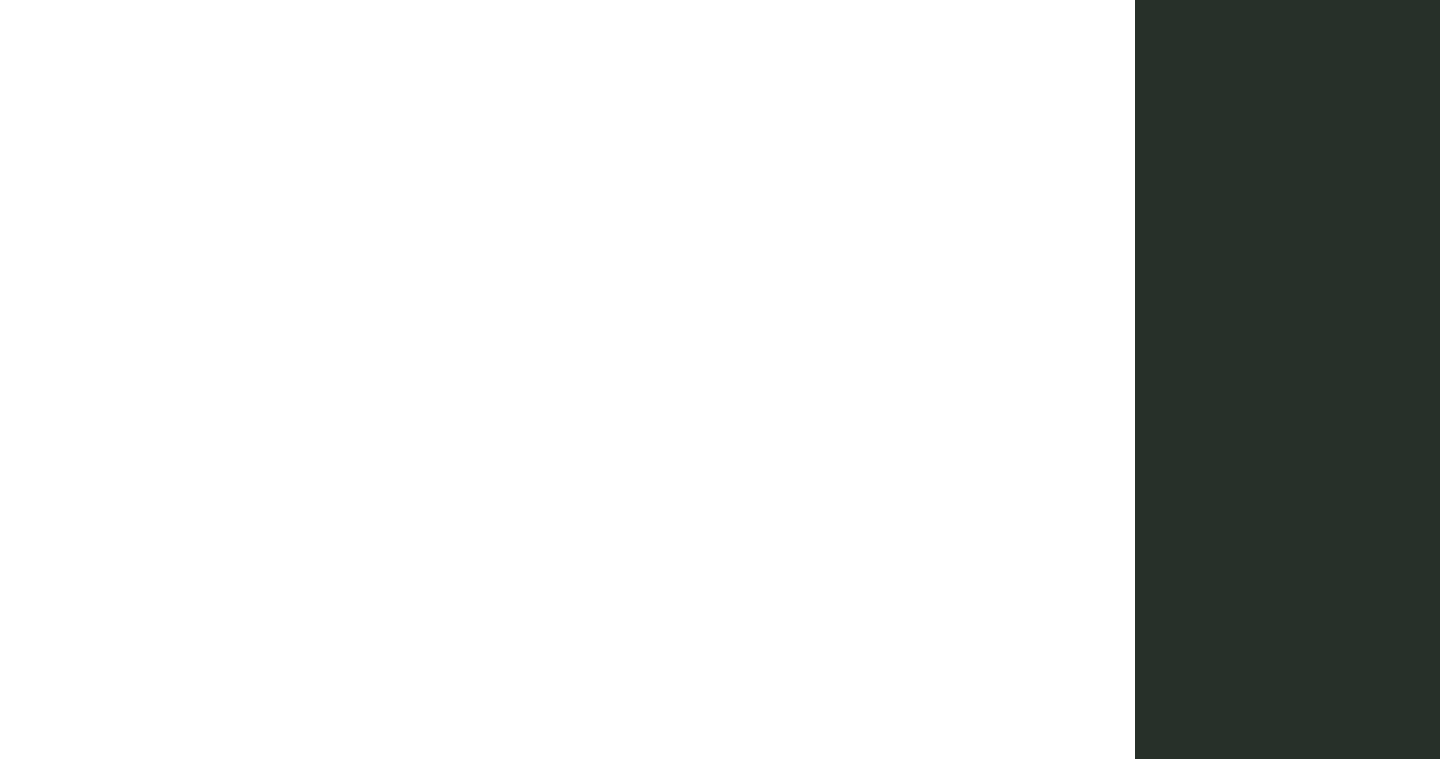
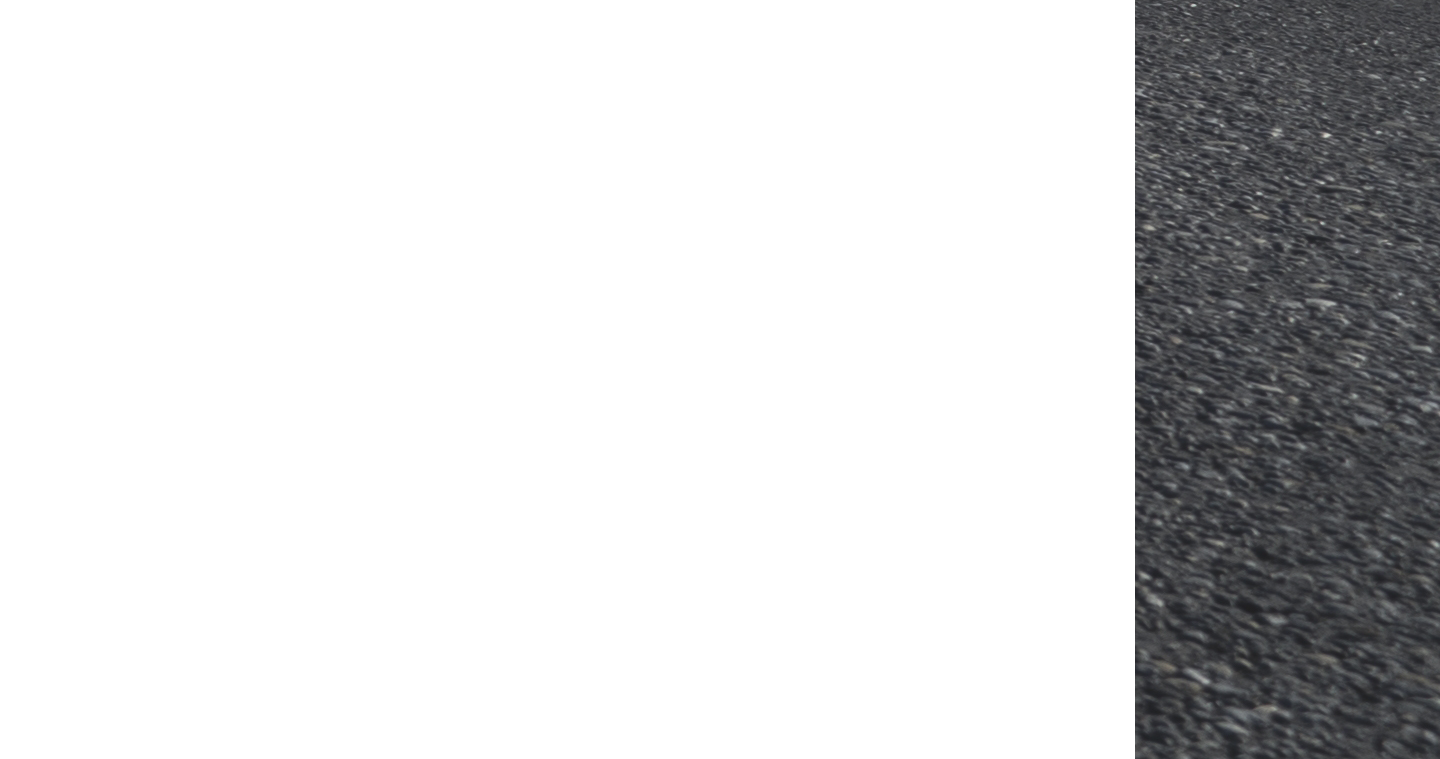
done

Changed region(s): [[0.7812, 0.0, 1.0, 1.0]]

diff --git a/components/Accordion.jsx b/components/Accordion.jsx
@@ -2,25 +2,56 @@
 import React, {useState} from 'react';
 import {motion} from 'framer-motion';
 
-import {HiOutlinePlus, HiOutlineMinus} from 'react-icons/hi';
+import {HiOutlinePlus, HiOutlineMinus, HiArrowRight, HiArrowLeft, HiArrowUp, HiArrowDown} from 'react-icons/hi';
+import Image from "next/image";
+import {fadeIn} from "@/variants";
 
 const Accordion = ({accordion}) => {
     const [isOpen, setIsOpen] = useState(false);
+    const [isFocused, setIsFocused] = useState(false);
+    const handleOnFocus = () => {
+        setIsFocused(true);
+    };
     return (
-        <div  className = "min-w-[450px]">
-            <div className = "drop-shadow-primary bg-white/10 text-black cursor-pointer rounded-xl h-[90px] px-12 flex items-center"
-                 onClick={() => {setIsOpen(!isOpen)}}>
-                <div className = "w-full flex justify-left items-center">
-                    <h3 className = "lead font-medium leading-snug max-w-[400px] left-0 absolute hidden xl:flex">{accordion.title}</h3>
-                    <div className = "transition-all duration-500">
-                        {isOpen
-                            ? (<div ><HiOutlineMinus className = "text-2xl "/></div>)
-                            : (<div className=''><HiOutlinePlus className = "text-2xl text-accent"/></div>)}
+        <div className = "flex py-5 justify-center xl:flex-row flex-col items-center">
+            <div onClick={() => {setIsOpen(!isOpen)}} className = 'cursor-pointer hover:scale-105 transition-all duration-300'>
+                <div className= 'flex items-center xl:flex-row flex-col hover:ml-4 transition-all hover:text-green'>
+                    <motion.div variants = {fadeIn('down', 0.2)}
+                                initial = 'hidden'
+                                whileInView = {'show'}
+                                viewport = {{once: false, amount: 0}}>
+                        <Image className='rounded-xl' src={accordion.img} alt='qwe' width={300} height={150}/>
+                    </motion.div>
+                    <motion.h3 variants = {fadeIn('down', 0.4)}
+                               initial = 'hidden'
+                               whileInView = {'show'}
+                               viewport = {{once: false, amount: 0}} className='text-center py-2 xl:py-0 xl:hidden'>{accordion.title}</motion.h3>
+                    <div className='transition-all duration-700 '>
+                        {isOpen ? ('') : (<motion.div  variants = {fadeIn('right', 0.6)}
+                                                       initial = 'hidden'
+                                                       whileInView = {'show'}
+                                                       viewport = {{once: false, amount: 0}}><HiArrowRight className='text-3xl hidden xl:flex'/></motion.div>)}
+                        {isOpen ? (<motion.div variants = {fadeIn('down', 0.6)}
+                                               initial = 'hidden'
+                                               whileInView = {'show'}
+                                               viewport = {{once: false, amount: 0}}><HiArrowUp className='text-2xl xl:hidden'/></motion.div>) : (<motion.div variants = {fadeIn('down', 0.6)}
+                                                      initial = 'hidden'
+                                                      whileInView = {'show'}
+                                                      viewport = {{once: false, amount: 0}}><HiArrowDown className='text-2xl xl:hidden'/></motion.div>)}
                     </div>
                 </div>
+                <motion.h3 variants = {fadeIn('right', 0.4)}
+                           initial = 'hidden'
+                           whileInView = {'show'}
+                           viewport = {{once: false, amount: 0}} className='text-center py-2 xl:py-0 hidden xl:flex'>{accordion.title}</motion.h3>
             </div>
-            <div className = {`${isOpen ? 'max-h-[160px] p-8 bg-white/10 rounded-xl drop-shadow-primary my-2' : 'max-h-0'}
-        h-[160px] overflow-hidden transition-all flex items-center max-w-[250px]`}>
+        {/*    <div className = "transition-all duration-500">*/}
+        {/*    {isOpen*/}
+        {/*        ? (<motion.div initial = "initial" animate = {{rotate: 180}}><HiOutlineMinus className = "text-2xl "/></motion.div>)*/}
+        {/*        : (<motion.div><HiOutlinePlus initial = "initial" animate = {{rotate: 0}} className = "text-2xl text-accent"/></motion.div>)}*/}
+        {/*</div>*/}
+            <div className = {`${isOpen ? 'min-w-[250px]  rounded-xl drop-shadow-primary px-4' : 'max-h-0'}
+         overflow-hidden flex items-center lg:max-w-[750px] max-w-[150px] transition-all`}>
                 <p className = "lead leading-[30px] text-black">{accordion.fullDesc}</p>
             </div>
         </div>

diff --git a/components/Contact.jsx b/components/Contact.jsx
@@ -48,20 +48,20 @@ const Contact = () => {
             <div className= 'xl:grid xl:grid-cols-3 px-2 xl:px-0'>
                 <div className = 'flex flex-col py-10'>
                     <h1 className= 'pl-8 mb-10'>Контакти<span className = 'text-green'>:</span></h1>
-                    <div className= 'xl:py-4 py-2 flex flex-row items-center'>
+                    <div className= 'xl:py-4 py-2 flex items-center'>
                         <PhoneOutgoing className = 'size-[44px] text-green mr-1' strokeWidth={2.25}/>
                         <h3 className = 'text-secondary font-bold cursor-default'>Телефон<span className = 'text-green'>:</span></h3>
-                        <a href={`tel:${+380663324759}`} className = 'text-[18px] px-2 mt-0.5 text-grey'>+3790123880924</a>
+                        <a href={`tel:${+380980248994}`} className = 'text-[18px] px-2 mt-0.5 text-grey'>+(098)-024-89-94</a>
                     </div>
-                    <div className= 'xl:py-4 py-2 flex flex-row items-center'>
+                    <div className= 'xl:py-4 py-2 flex items-center'>
                         <AtSign className = 'size-[44px] text-green mr-1' strokeWidth={2.25}/>
                         <h3 className = 'text-secondary font-bold cursor-default'>Пошта<span className = 'text-green'>:</span></h3>
-                        <p className= 'text-[18px] px-2 mt-0.5 text-grey'>abrakadabra_02dabra@gmail<span className = 'text-green'>.</span>com</p>
+                        <p className= 'text-[18px] px-2 mt-0.5 text-grey'>sales@s8logistics.com.ua<span className = 'text-green'>.</span>com</p>
                     </div>
-                    <div className= 'xl:py-4 py-2 flex flex-row items-center'>
+                    <div className= 'xl:py-4 py-2 flex items-center'>
                         <MapPinned className= 'size-[44px] text-green mr-1' strokeWidth={2.25}/>
                         <h3 className = 'text-secondary font-bold cursor-default'>Адреса<span className = 'text-green'>:</span></h3>
-                        <p className= 'px-2 text-[18px] mt-0.5 text-grey'>Одеса<span className = 'text-green'>,</span> вул<span className = 'text-green'>.</span>ЯкасьТамВулиця 86</p>
+                        <p className= 'px-2 text-[18px] mt-0.5 text-grey'>Одеса<span className = 'text-green'>,</span> вул<span className = 'text-green'>.</span>Церковна 19</p>
                     </div>
                 </div>
                 <MapContainer

diff --git a/components/ServicesFull.jsx b/components/ServicesFull.jsx
@@ -40,28 +40,20 @@ const services = [
 
 const ServicesFull = () => {
     return (
-        <section className = "min-h-[1150px] rounded-bl-[100%] rounded-tr-[10%] bg-no-repeat lg:pt-40 lg:pb-24 mb-16 lg:mb-40">
+        <section className = "min-h-[1150px] lg:pt-40 pt-36 lg:pb-24 mb-16 lg:mb-40">
             <div className = "container mx-auto">
-                <div className = "relative flex flex-col lg:flex-row justify-center lg:justify-start items-center pt-8 pb-16 lg:pb-24">
-                    <div className = "lg:max-w-[45%]">
-                        <h3 className = "h3 uppercase tracking-wide">Текст</h3>
-                        <h2 className = "h2 mb-6 text-black">Бла-Бла</h2>
+                <div className = "relative flex flex-col lg:flex-row justify-center  items-center p-6">
+                    <div className = "flex justify-center">
+                        <h3 className = "uppercase tracking-wide text-center">усі послуги<span className='text-green text-2xl'>:</span></h3>
                     </div>
                     <div className = "lg:absolute lg:right-4 lg:-top-36 ">
-                        {/*<Image src = {faqData.boyImg} width = {700} height = {500} alt = "q"/>*/}
+                        {/*<Image src = {} width = {700} height = {500} alt = "q"/>*/}
                     </div>
                 </div>
-                <div className = "grid grid-cols-1 lg:grid-cols-1 ">
+                <div className = "grid grid-cols-1  ">
                     {services.map((item, index) => {
                         return (
-                            <div className = 'grid grid-cols-3 py-4'>
-                                <div className = ''>
-                                    <Image src={item.img} alt='qwe' width={400} height={200}/>
-                                </div>
-                                <div className='relative grid col-span-2'>
-                                    <Accordion accordion = {item} key = {index}/>
-                                </div>
-                            </div>
+                                <Accordion accordion = {item} key = {index}/>
                         );
                     })}
                 </div>

diff --git a/components/Header.jsx b/components/Header.jsx
@@ -25,20 +25,20 @@ const Header = () => {
 <header className = {`${active ? 'bg-secondary py-6 text-white' : 'bg-none py-10 shadow-lg'}
                             fixed top-0 w-full z-50 left-0 right-0 transition-all duration-200 rounded-b-3xl`}>
     <div className = 'container mx-auto'>
-        <div className = 'flex items-center justify-between '>
-                <Link href='/'>
+        <div className = 'flex items-center justify-between'>
+                <Link href='/' className='hover:scale-105'>
                     <Image src = '/assets/Logo/Logo1.png' alt = 'logo_img' width={180} height={40}/>
                 </Link>
             <Nav containerStyles='hidden xl:flex gap-x-10 cursor-pointer'
-                 linkStyles='capitalize text-lg hover:scale-110 hover:underline decoration-green decoration-[2px] underline-offset-4 hover:text-green'
+                 linkStyles='capitalize text-lg hover:scale-110 hover:underline decoration-green decoration-[2px] underline-offset-4 hover:text-green transtion-all'
             />
             <div className = 'flex flex-row items-center cursor-pointer gap-x-2'>
-                <div className= 'md:border-2 border-green rounded-full p-2 flex items-center hover:scale-105 gap-x-2'>
-                    <a href={`tel:${+380663324759}`} className = 'hidden md:flex'>+3790123880924</a>
-                    <a href={`tel:${+380663324759}`} className= ''><PhoneCall className = 'size-8 text-green'/> </a>
+                <div className= 'md:border-2 border-green rounded-full p-2 flex items-center hover:scale-105 gap-x-2 transition-all'>
+                    <a href={`tel:${+380980248994}`} className = 'hidden md:flex'>+(098)-024-89-94</a>
+                    <a href={`tel:${+380980248994}`} className= ''><PhoneCall className = 'size-8 text-green'/> </a>
                 </div>
                 <ScrollLink to = 'reservation' smooth = {true}>
-                    <Button className = 'hidden xl:flex'
+                    <Button className = 'hidden xl:flex transition-all'
                         variant='default' size= 'sm'
                     >Зв'язатися</Button>
                 </ScrollLink>

diff --git a/components/Slider.jsx b/components/Slider.jsx
@@ -6,15 +6,23 @@ import 'swiper/css/navigation';
 
 const Slider = ({clients}) => {
     return (
-        <Swiper slidesPerView = {4} spaceBetween = {20} slidesOffsetBefore = {20} grabCursor = {true} modules = {[]} className = "w-[1300px] h-[440px]">
+        <Swiper slidesPerView = {2} spaceBetween = {20} slidesOffsetBefore = {20} grabCursor = {true} modules = {[]} className = "w-full xl:h-[440px] h-[500px]"
+        breakpoints={{
+            300: {
+                slidesPerView: 2
+            },
+            1024: {
+                slidesPerView: 3
+            }
+        }}>
             {clients.map((client, id) => {
                 return (
                     <SwiperSlide key = {id}>
-                        <div className = "flex flex-col justify-between items-center bg-secondary/10 h-[360px] rounded-2xl px-[50px] py-9">
-                            <p className = "text-black font-light leading-[30px]">{client.message}</p>
-                            <div className = "flex items-center gap-x-5">
+                        <div className = "flex flex-col justify-between items-center bg-secondary/10 h-[420px] rounded-2xl xl:px-[48px] px-8 py-9">
+                            <p className = "text-black font-light leading-[30px] text-[14px] xl:text-lg">{client.message}</p>
+                            <div className = "flex items-center gap-x-5 xl:flex-row flex-col justify-center">
                                 <Image src = {client.image} width = {60} height = {60} alt = "q"/>
-                                <span className = "font-semibold text-black">{client.name}</span>
+                                <span className = "font-semibold text-black text-center">{client.name}</span>
                             </div>
                         </div>
                     </SwiperSlide>

diff --git a/components/Footer.jsx b/components/Footer.jsx
@@ -20,7 +20,7 @@ const Footer = () => {
                 <div className = 'flex flex-col justify-between items-center xl:items-start text-center xl:flex-row'>
                     <div className = 'w-[300px] mb-8 xl:mb-0 flex justify-center'>
                         <Link href = '/'>
-                            <Image src = '/assets/Logo/Logo1.png' alt = 'logo_img' width = {200} height = {66}/>
+                            <Image src = '/assets/Logo/LogoF.png' alt = 'logo_img' width = {200} height = {66}/>
                         </Link>
                     </div>
                     <div className = 'flex-1 grid grid-cols-1 xl:grid-cols-3 gap-[50px] mb-8 xl:mb-16'>

diff --git a/app/services/page.jsx b/app/services/page.jsx
@@ -3,13 +3,13 @@
 import React from 'react'
 import Link from 'next/link'
 import ServicesFull from "@/components/ServicesFull";
+import ContactForm from "@/components/ContactForm";
 const ServiceList = () => {
     return (
         <section className= ''>
             <ServicesFull/>
-            <h2 className= 'mt-20'>
-                <Link href="/" className = 'underline'>Back to home</Link>
-            </h2>
+            <ContactForm/>
+
         </section>
     )
 }

diff --git a/components/Services.jsx b/components/Services.jsx
@@ -30,7 +30,7 @@ const services = [
 
 const Services = () => {
     return (
-        <section className = 'relative py-4 xl:py-24 bg-service' id = 'services'>
+        <section className = 'relative py-4 xl:py-24 bg-service bg-no-repeat' id = 'services'>
             <div className = 'container mx-auto'>
                 <div className= 'max-w-[570px] mx-auto'>
                     <h2 className = 'mb-2 text-center'>Наші Послуги</h2>

diff --git a/tailwind.config.js b/tailwind.config.js
@@ -37,7 +37,7 @@ module.exports = {
       },
       backgroundImage: {
         hero: 'url(/assets/HeroBg1.jpg)',
-        service: 'url(/assets/ServBg.png)',
+        service: 'url(/assets/ServBg2.png)',
         contactForm: 'url(/assets/PhoneCallBg.png)',
         footer: 'url(/assets/Footer2.png)',
       },

diff --git a/app/layout.jsx b/app/layout.jsx
@@ -19,6 +19,7 @@ export default function RootLayout({ children }) {
       <div>
         <Header/>
         {children}
+          <div className='w-full max-w-[1440px] bg-white mx-auto overflow-hidden'><Footer/></div>
       </div>
       </body>
     </html>

diff --git a/app/page.jsx b/app/page.jsx
@@ -20,7 +20,7 @@ export default function Home() {
           <About/>
           <Contacts/>
           <Testimonials/>
-          <Footer/>
+          {/*<Footer/>*/}
       </main>
   );
 }
